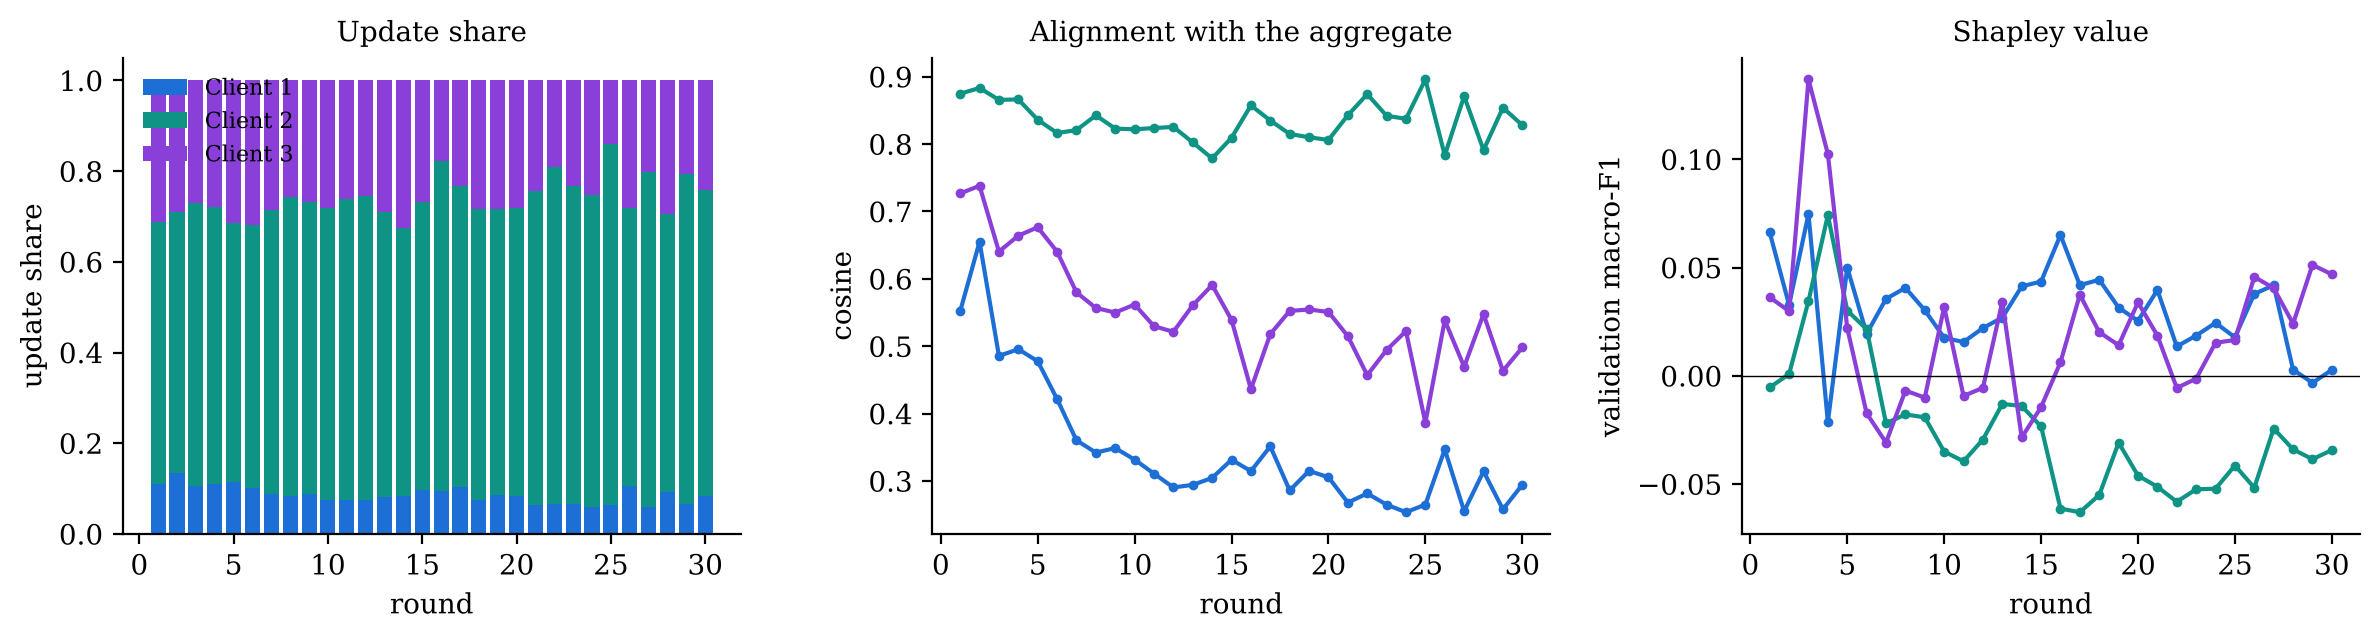
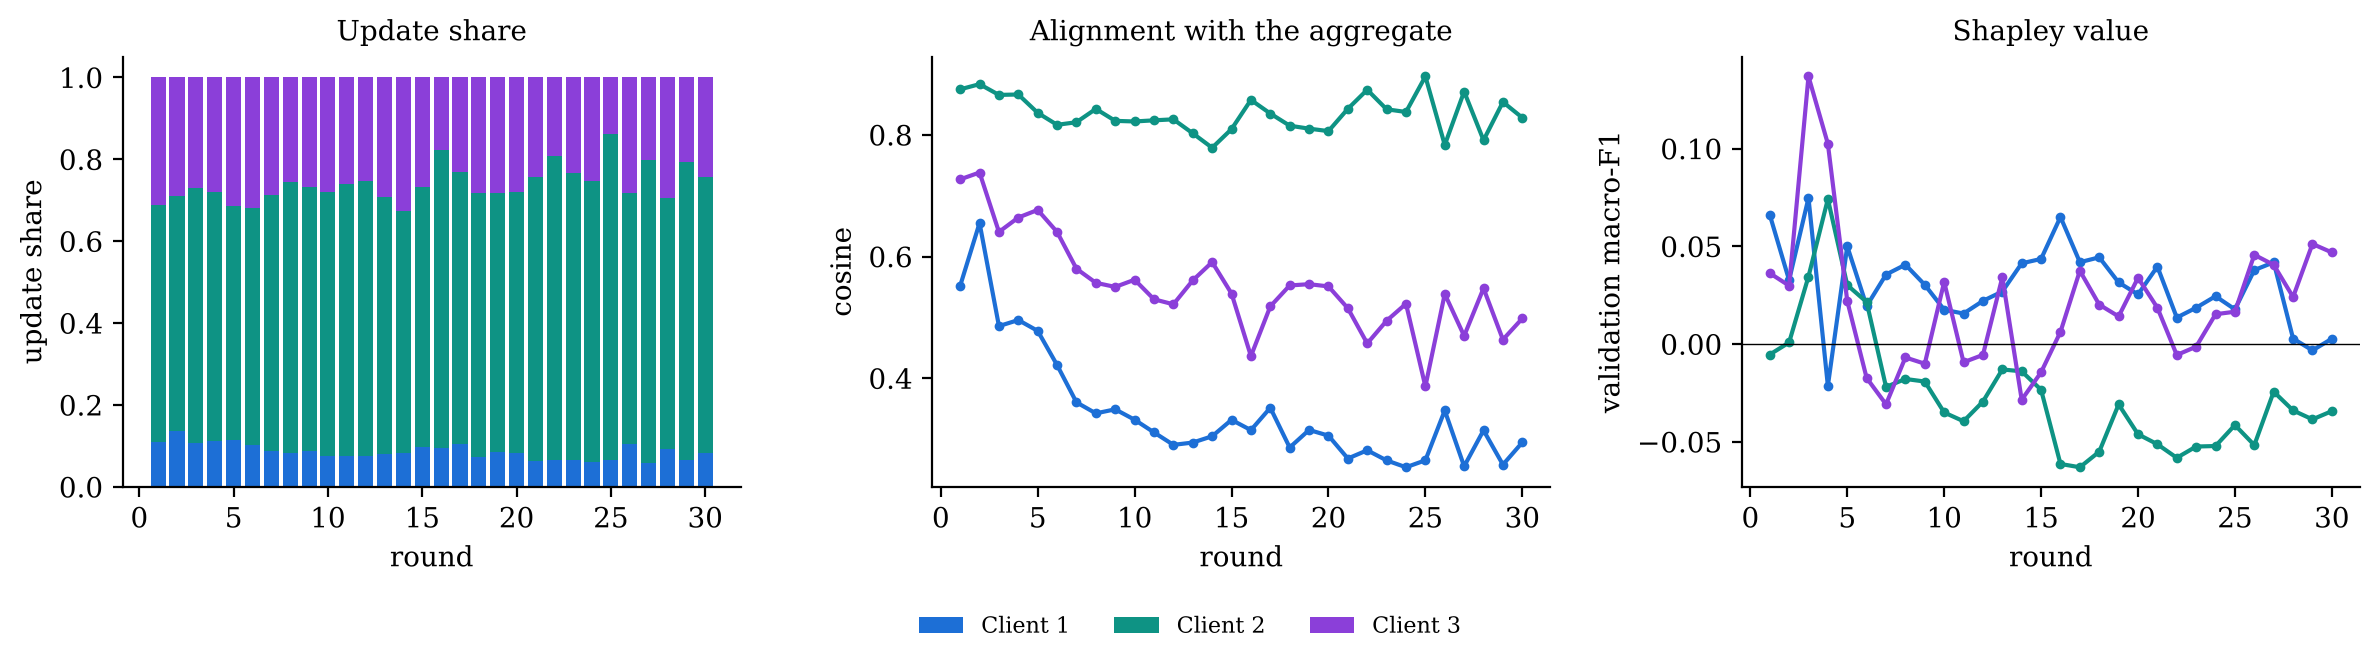
Fix labels and legends in three report figures

diff --git a/scripts/make_report_figures.py b/scripts/make_report_figures.py
@@ -428,8 +428,9 @@ def fig_fl_contributions(fed):
     ax[2].axhline(0, color='k', lw=.5); ax[2].set_ylabel('validation macro-F1'); ax[2].set_title('Shapley value', fontsize=10)
     for a in ax:
         a.set_xlabel('round')
-    ax[0].legend(frameon=False, fontsize=8)
-    fig.tight_layout()
+    h, l = ax[0].get_legend_handles_labels()
+    fig.legend(h, l, frameon=False, fontsize=8, ncol=3, loc='lower center')
+    fig.tight_layout(rect=(0, 0.07, 1, 1))
     save(fig, 'fl_contributions.png')
 
 
@@ -447,8 +448,9 @@ def fig_noisy_client(fed):
     for ax, key, t in zip(axs, ['share', 'alignment', 'shapley'], ['Update share', 'Alignment (cosine)', 'Shapley value']):
         for node, c in zip([1, 2, 3], [CLIENT_COLORS[0], CLIENT_COLORS[1], OR]):
             ax.plot([r['round'] for r in N], [next(cc[key] for cc in r['clients'] if cc['node'] == node) for r in N],
-                    marker='o', color=c, label=f'Client {node}' + (' (noisy labels)' if node == 3 else ''))
+                    marker='o', color=c, label=f'Client {node}' + (' (sends noise)' if node == 3 else ''))
         ax.set_title(t, fontsize=10); ax.set_xlabel('round'); ax.axhline(0, color='k', lw=.5)
+        ax.set_xticks([1, 2, 3])
     axs[0].legend(frameon=False, fontsize=7.5)
     fig.tight_layout()
     save(fig, 'noisy_client.png')
@@ -464,8 +466,9 @@ def fig_personalisation(test_rows):
     for i, k in enumerate(keys):
         ax.text(i - w / 2, g[k] + .01, f'{g[k]:.3f}', ha='center', fontsize=8)
         ax.text(i + w / 2, p[k] + .01, f'{p[k]:.3f}', ha='center', fontsize=8)
-    ax.set_xticks(x, ['Client 1', 'Client 2', 'Client 3']); ax.set_ylabel("macro-F1, classes in the client's test set")
+    ax.set_xticks(x, ['Client 1', 'Client 2', 'Client 3']); ax.set_ylabel('macro-F1 (classes present)')
     ax.set_ylim(0, 1.15); ax.legend(frameon=False, fontsize=8, loc='upper center', ncol=2)
+    fig.tight_layout()
     save(fig, 'personalisation.png')
 
 
